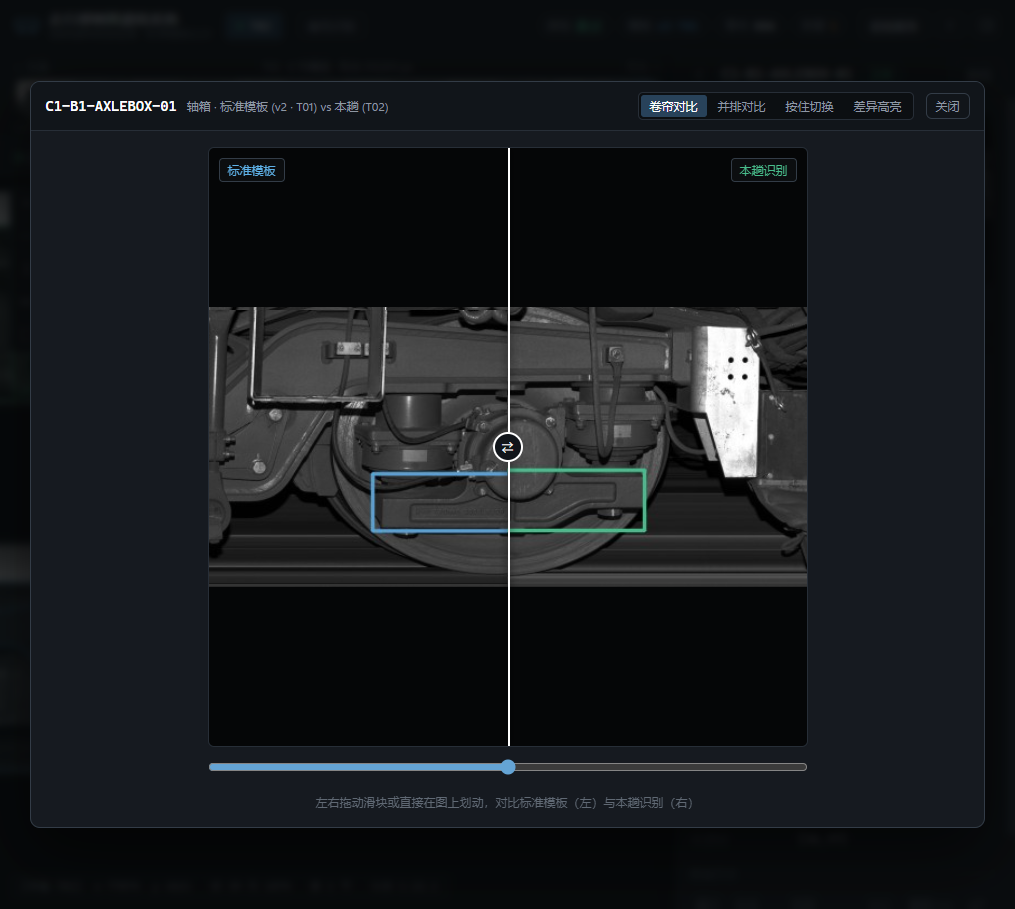
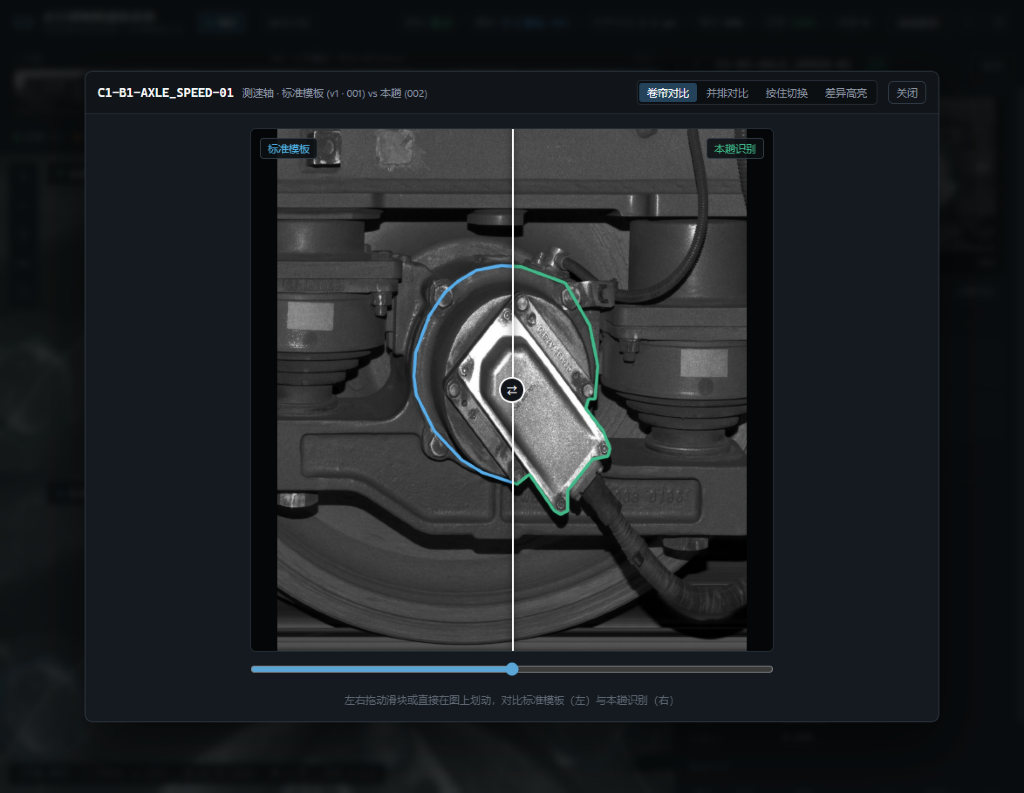
docs: 替换为全列 6 节 546 件 1:1 原始分辨率手工精标实拍截图

diff --git a/README.en.md b/README.en.md
@@ -15,9 +15,9 @@
 
 <br>
 
-<img src="docs/assets/hero-dual-compare.png" alt="Synchronized Dual-Pane Real Bogie Inspection vs Standard Template Comparison" width="100%">
+<img src="docs/assets/hero-dual-compare.png" alt="Full 6-Car Synchronized Dual-Pane Real Bogie Inspection vs Standard Template Comparison" width="100%">
 
-<sub>*Anonymized real underframe bogie line-scan imagery rendered live in synchronized dual-pane template comparison mode (hand-refined contours, 1.4 px ≈ 0.33 mm cross-trip alignment; zero operator, line, or vehicle identifiers).*</sub>
+<sub>*Anonymized full 6-car real line-scan imagery (499,039 × 4,096 px, 1:1 native pyramid) rendered live in synchronized dual-pane template comparison mode: 546 hand-refined targets across 12 bogies and underframe boxes, 2.41 px ≈ 0.55 mm cross-trip alignment; zero operator, line, or vehicle identifiers.*</sub>
 
 </div>
 
@@ -75,8 +75,8 @@ flowchart TB
 <table>
   <tr>
     <td width="50%" valign="top">
-      <img src="docs/assets/modal-curtain-compare.png" alt="Real Axlebox Curtain Slider Comparison Modal" width="100%">
-      <p align="center"><b>Real Axlebox Curtain Slider &amp; Pixel Diff Lightbox</b><br><sub>Compare standard template (left) vs. inspected trip (right) via pixel-aligned curtain swipe, side-by-side, hold-to-flip, or live difference highlighting</sub></p>
+      <img src="docs/assets/modal-curtain-compare.png" alt="Real Speed-Sensor Axle 1:1 Curtain Slider Comparison Modal" width="100%">
+      <p align="center"><b>Real Speed-Sensor Axle 1:1 Curtain Slider &amp; Pixel Diff</b><br><sub>Compare standard template (left cyan) vs. inspected trip (right green) via pixel-aligned curtain swipe, side-by-side, hold-to-flip, or live difference highlighting</sub></p>
     </td>
     <td width="50%" valign="top">
       <img src="docs/assets/printable-report.png" alt="6-Car Real Printable Inspection Report Preview" width="100%">
@@ -85,8 +85,8 @@ flowchart TB
   </tr>
   <tr>
     <td colspan="2" valign="top">
-      <img src="docs/assets/dashboard-overview.png" alt="6-Car Full-Train Dual-Pane Alignment and Inspection Overview Dashboard" width="100%">
-      <p align="center"><b>6-Car Full-Train Alignment &amp; Overview Dashboard</b><br><sub>Seamless deep zoom and synced crosshair over a 510,615 px 6-car scan (4.2 px ≈ 0.95 mm median alignment error) paired with 886-part per-car health and category breakdowns</sub></p>
+      <img src="docs/assets/dashboard-overview.png" alt="1:1 Native Resolution Deep-Zoom Dual-Pane Verification and Per-Part Metrics" width="100%">
+      <p align="center"><b>1:1 Native-Resolution Deep Zoom &amp; Per-Part Quantitative Inspection</b><br><sub>Inspect individual hex bolts and cast-metal surface textures across synchronized panes backed by 0–19 native pyramids, paired with live NCC, millimeter shift, and angle metrics</sub></p>
     </td>
   </tr>
 </table>

diff --git a/README.md b/README.md
@@ -15,9 +15,9 @@
 
 <br>
 
-<img src="docs/assets/hero-dual-compare.png" alt="实拍转向架双屏标准模板对齐比对与实时联动十字准星" width="100%">
+<img src="docs/assets/hero-dual-compare.png" alt="全列 6 节实拍转向架双屏标准模板对齐比对与实时联动十字准星" width="100%">
 
-<sub>*以上界面为脱敏实拍转向架线阵影像的双屏标准模板比对实景（人工精修轮廓、跨趟中位对齐误差 1.4 px ≈ 0.33 mm，不含任何线路、车号或运营单位信息）。*</sub>
+<sub>*以上界面为脱敏全列 6 节实拍线阵影像（车内 499,039 × 4,096 px，1:1 原图金字塔）的双屏标准模板比对实景：覆盖 12 台转向架与车下设备箱共 546 个手工精修目标，跨趟中位对齐误差 2.41 px ≈ 0.55 mm，不含任何线路、车号或运营单位信息。*</sub>
 
 </div>
 
@@ -75,8 +75,8 @@ flowchart TB
 <table>
   <tr>
     <td width="50%" valign="top">
-      <img src="docs/assets/modal-curtain-compare.png" alt="实拍轴箱大图卷帘对比弹窗" width="100%">
-      <p align="center"><b>实拍轴箱大图卷帘 / 差异高亮对比</b><br><sub>支持标准模板（左）与本趟识别（右）像素级卷帘划动、并排对照、按住闪烁切换与逐像素差值高亮，细微位移与转角一目了然</sub></p>
+      <img src="docs/assets/modal-curtain-compare.png" alt="实拍测速轴端 1:1 大图卷帘对比弹窗" width="100%">
+      <p align="center"><b>实拍测速轴端 1:1 大图卷帘 / 差异高亮对比</b><br><sub>支持标准模板（左蓝）与本趟识别（右绿）像素级卷帘划动、并排对照、按住闪烁切换与逐像素差值高亮，细微位移与转角一目了然</sub></p>
     </td>
     <td width="50%" valign="top">
       <img src="docs/assets/printable-report.png" alt="实拍 6 节编组可打印巡检报告预览" width="100%">
@@ -85,8 +85,8 @@ flowchart TB
   </tr>
   <tr>
     <td colspan="2" valign="top">
-      <img src="docs/assets/dashboard-overview.png" alt="实拍 6 节整车无遮挡双屏联动与巡检概览看板" width="100%">
-      <p align="center"><b>6 节整车双屏联动对齐与巡检概览看板</b><br><sub>完整支持 51 万像素级 6 节编组超长图无缝缩放与联动准星定位（跨趟中位误差 4.2 px ≈ 0.95 mm），右侧聚合 886 个零件的分车厢健康度与类别统计</sub></p>
+      <img src="docs/assets/dashboard-overview.png" alt="1:1 原始分辨率深度放大双屏联动与逐件指标核查" width="100%">
+      <p align="center"><b>1:1 原始清晰度深度缩放与逐件量化核查</b><br><sub>基于 0–19 层原图金字塔实现单颗紧固螺栓与铸件纹理级双屏联动放大，右侧同步呈现外观相似度（NCC）、毫米级偏移与转角量化指标</sub></p>
     </td>
   </tr>
 </table>
